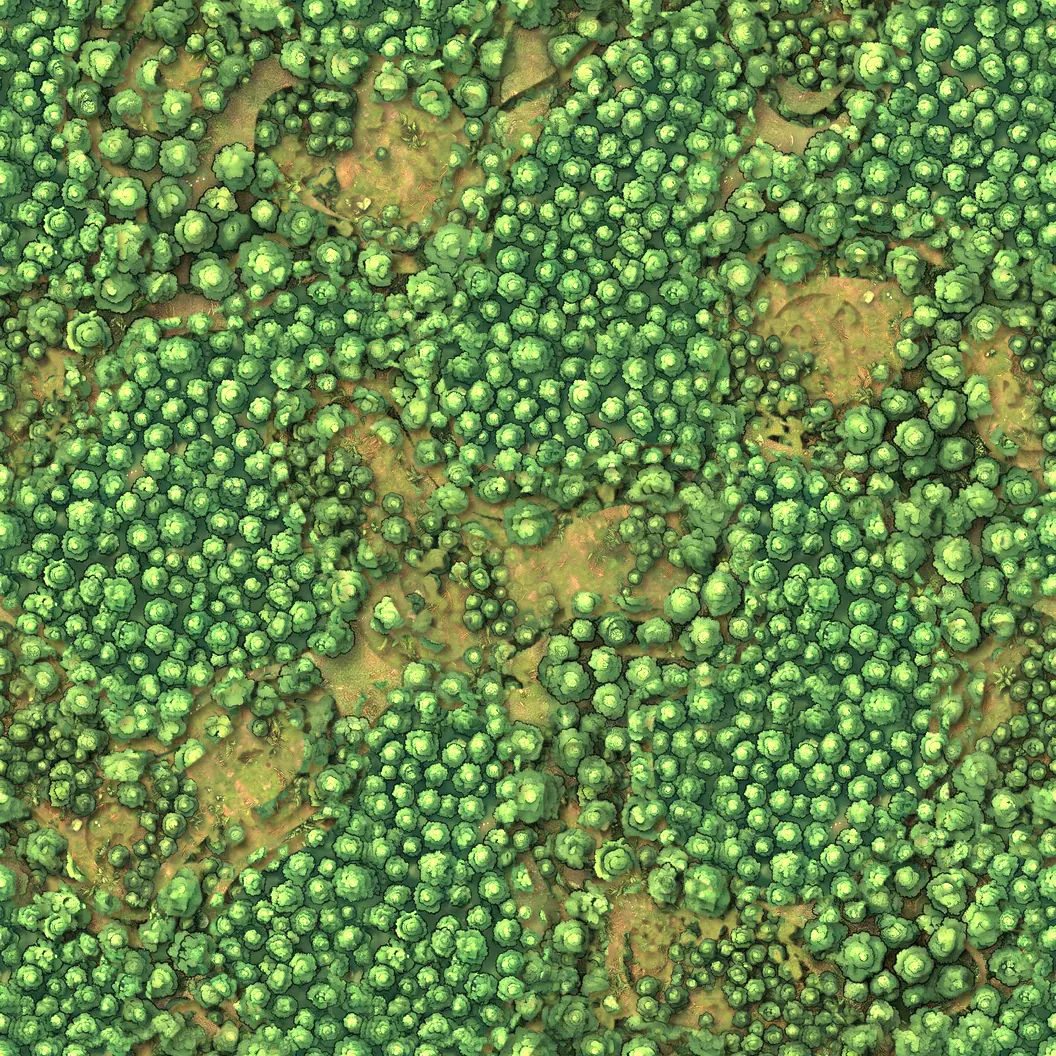
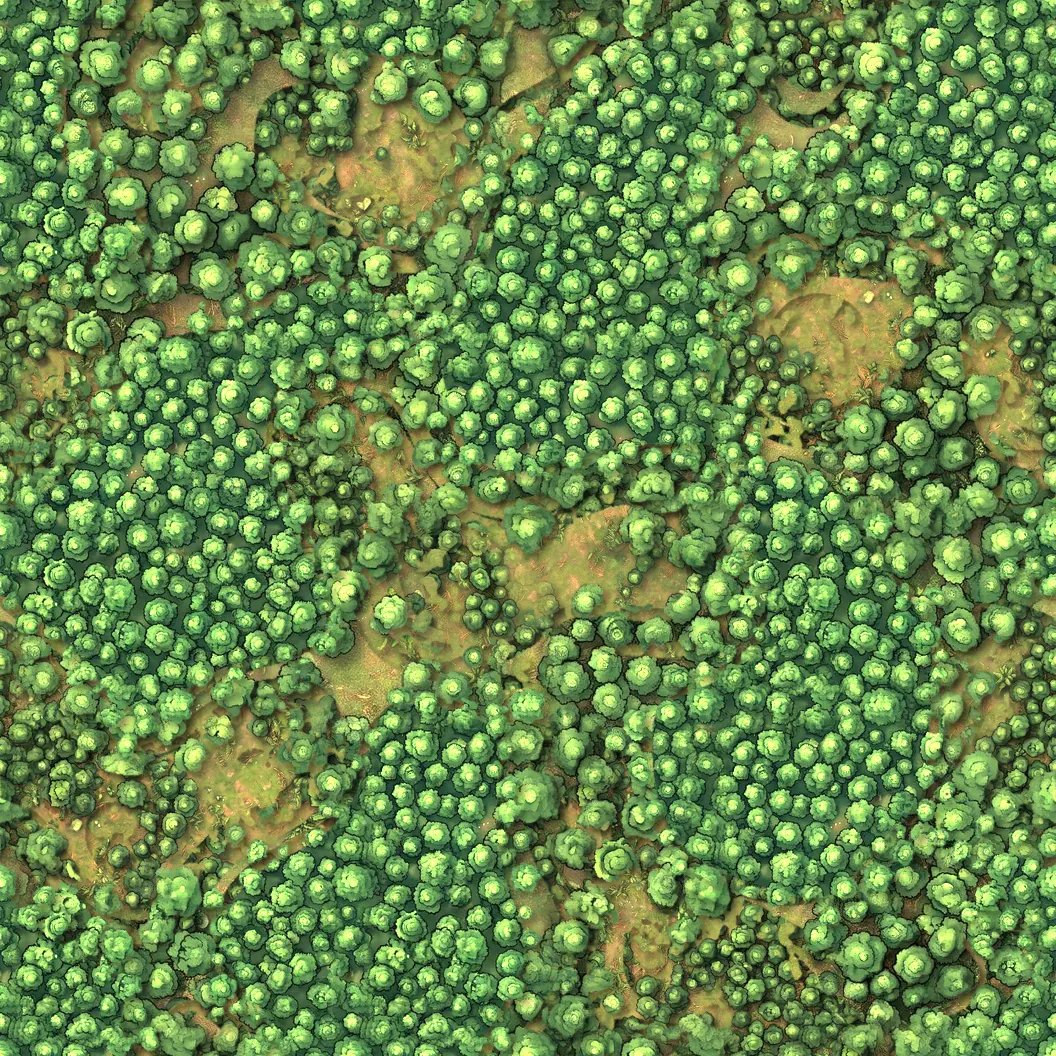
Each treetop laid whole or not at all where densities meet, never half see-through over the ground
Claude-Session: https://claude.ai/code/session_014mPV2zL44TcDQaUfxc49uR

diff --git a/scripts/texture.py b/scripts/texture.py
@@ -101,8 +101,12 @@ else:
         inside = wgt > 0.75
         depth = ndimage.distance_transform_edt(inside)
         core = inside & ((depth > 14) | (crowns > 0.5))
-        rim = np.clip(wgt * 4, 0, 1)
-        m = np.maximum(core.astype(np.float32), rim * crowns)
+        # (each treetop all in or all out, never see-through: the treetops are the pieces of the picture
+        # standing above its ground; one is laid if most of it lies within the patch)
+        pieces, count = ndimage.label(crowns > 0.5)
+        share = ndimage.mean((wgt > 0.02).astype(np.float32), pieces, np.arange(1, count + 1))
+        whole = np.concatenate([[False], share > 0.5])[pieces]
+        m = np.maximum(core, whole).astype(np.float32)
         m = ndimage.gaussian_filter(m, 0.7, mode='wrap')
         # the trees' shadow cast on the ground below them, towards the bottom right (light from the top-left)
         shade = np.roll(ndimage.gaussian_filter(m, 4, mode='wrap'), (5, 5), (0, 1)) * (1 - m) * 0.45
